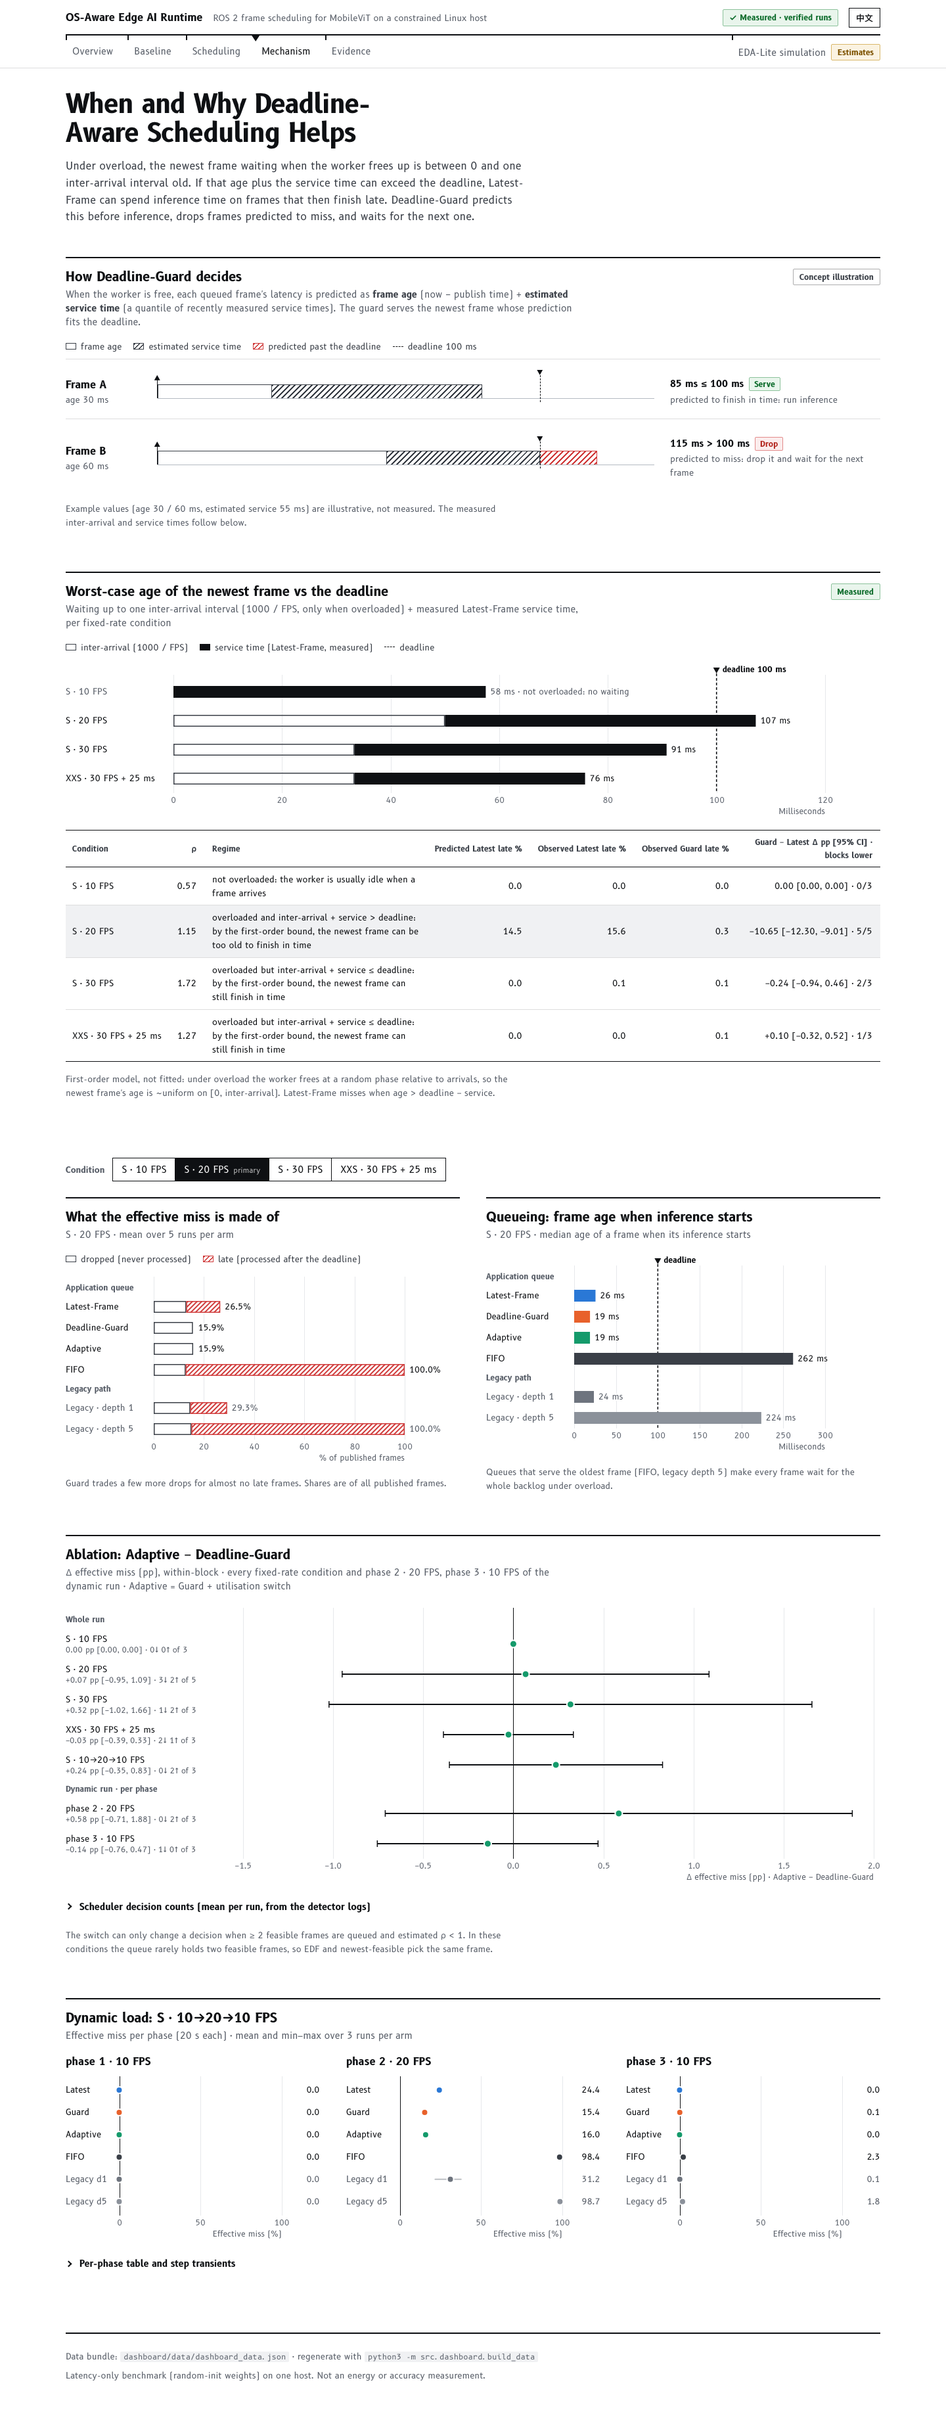
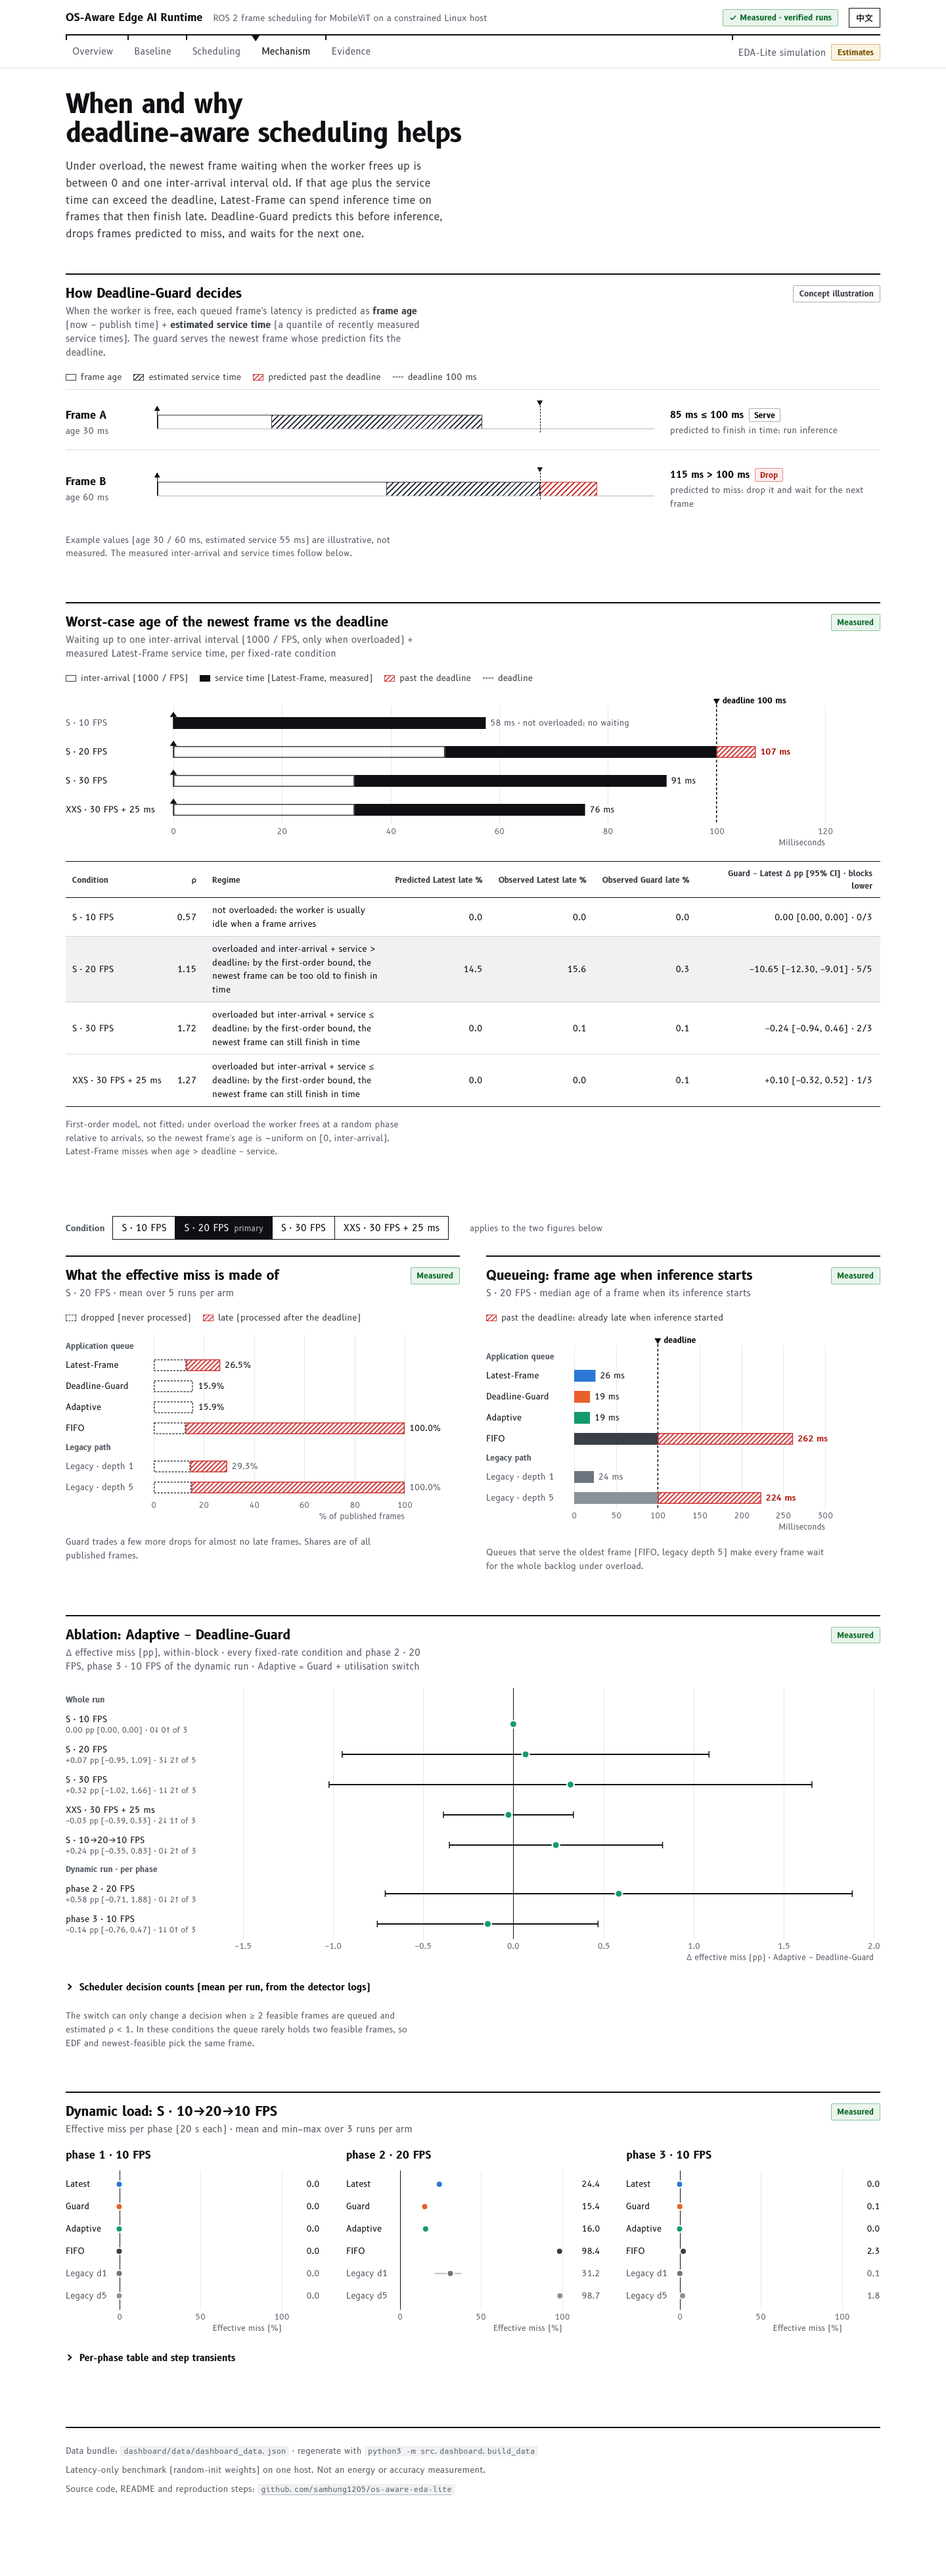
docs(dashboard): clickable repository link, refreshed README screenshots
- The footers and the Evidence note link to the GitHub repository. The
  frontend test allow-lists exactly that href; src= and every other
  external URL stay forbidden. PRODUCT.md records the exception.
- Fix the Evidence view, which failed to render after the link was added
  inside a double-quoted string.
- docs/images: full-page screenshots regenerated from the current build
  (headless Chrome, light scheme, 1440 px; phone at 500 px).

diff --git a/dashboard/assets/views/evidence.js b/dashboard/assets/views/evidence.js
@@ -88,7 +88,7 @@ python3 -m src.dashboard.build_data --check   # 0 = current
 
 ${L("# preview locally (binds 127.0.0.1 only)", "# 在本機預覽（只綁定 127.0.0.1）")}
 bash scripts/serve_dashboard.sh</pre>
-          <p class="fig-note">${L("Rebuilding the tables themselves from raw runs: README → Reproducibility in the repository, <code>github.com/samhung1205/os-aware-eda-lite</code>.", "要從 raw runs 重建表格本身，請見 repository <code>github.com/samhung1205/os-aware-eda-lite</code> 的 README → Reproducibility。")}</p></div>
+          <p class="fig-note">${L("Rebuilding the tables themselves from raw runs: README → Reproducibility in the repository, <a href='https://github.com/samhung1205/os-aware-eda-lite'><code>github.com/samhung1205/os-aware-eda-lite</code></a>.", "要從 raw runs 重建表格本身，請見 repository <a href='https://github.com/samhung1205/os-aware-eda-lite'><code>github.com/samhung1205/os-aware-eda-lite</code></a> 的 README → Reproducibility。")}</p></div>
       </div>
       <details class="table-toggle section-gap"><summary>${L(`All ${D.sources.length} source files with SHA-256`, `全部 ${D.sources.length} 個來源檔與 SHA-256`)}</summary>
         ${table([{ label: L("Path", "路徑"), l: true }, { label: L("Role", "用途"), l: true }, { label: "SHA-256", l: true }], D.sources.map((s) => ({ cells: [`<code>${esc(s.path)}</code>`, esc(T(s, "role")), `<code title="${s.sha256}">${s.sha256.slice(0, 16)}…</code>`] })))}</details>`;

diff --git a/dashboard/index.html b/dashboard/index.html
@@ -50,7 +50,7 @@
   <footer class="foot">
     <span><span data-zh="資料 bundle：">Data bundle: </span><code>dashboard/data/dashboard_data.json</code><span data-zh=" · 重新產生："> · regenerate with </span><code>python3 -m src.dashboard.build_data</code></span>
     <span data-zh="單一主機上的 latency-only benchmark（random-init weights），不是 energy 或 accuracy 量測。">Latency-only benchmark (random-init weights) on one host. Not an energy or accuracy measurement.</span>
-    <span><span data-zh="原始碼、README 與重現步驟：">Source code, README and reproduction steps: </span><code>github.com/samhung1205/os-aware-eda-lite</code></span>
+    <span><span data-zh="原始碼、README 與重現步驟：">Source code, README and reproduction steps: </span><a href="https://github.com/samhung1205/os-aware-eda-lite"><code>github.com/samhung1205/os-aware-eda-lite</code></a></span>
   </footer>
 
   <script>

diff --git a/dashboard/simulation.html b/dashboard/simulation.html
@@ -43,7 +43,7 @@
   <footer class="foot">
     <span><span data-zh="來源：">Source: </span><code>results/csv/eda_lite_mobilevit_profile_sweep.csv</code> (+ <code>.provenance.json</code>)<span data-zh="，由 ">, via </span><code>python3 -m src.dashboard.build_data</code><span data-zh=" 產生"></span></span>
     <span data-zh="僅為估計值。本頁沒有任何數字是 runtime 或 energy 實測。">Estimates only. Nothing on this page is a runtime or energy measurement.</span>
-    <span><span data-zh="原始碼與 README：">Source code and README: </span><code>github.com/samhung1205/os-aware-eda-lite</code></span>
+    <span><span data-zh="原始碼與 README：">Source code and README: </span><a href="https://github.com/samhung1205/os-aware-eda-lite"><code>github.com/samhung1205/os-aware-eda-lite</code></a></span>
   </footer>
   <script>
     window.addEventListener("error", function (e) {

diff --git a/tests/test_dashboard.py b/tests/test_dashboard.py
@@ -343,18 +343,26 @@ class FailureBehaviourTest(unittest.TestCase):
 class FrontendTest(unittest.TestCase):
     """Static checks of the page: self-contained, five views, separate simulation entry."""
 
+    # The one outbound link allowed: a plain <a href> to the project's own repository. It is a
+    # navigation link, not a resource the page loads; src= and every other URL stay forbidden.
+    REPO_LINK = "https://github.com/samhung1205/os-aware-eda-lite"
+
     def test_pages_load_no_external_resources(self):
         for f in [*DASH.glob("*.html"), *(DASH / "assets").rglob("*.js"), *(DASH / "assets").glob("*.css"),
                   *(DASH / "assets").glob("*.svg")]:
             text = f.read_text(encoding="utf-8")
             with self.subTest(file=f.name):
-                for m in re.finditer(r"""(?:src|href)\s*=\s*["']([^"']+)["']""", text):
-                    self.assertFalse(re.match(r"(https?:)?//", m.group(1)), f"{f.name}: external {m.group(1)}")
+                for m in re.finditer(r"""(src|href)\s*=\s*["']([^"']+)["']""", text):
+                    if m.group(1) == "href" and m.group(2) == self.REPO_LINK:
+                        continue
+                    self.assertFalse(re.match(r"(https?:)?//", m.group(2)), f"{f.name}: external {m.group(2)}")
                 self.assertNotIn("@import url(http", text)
 
     def test_referenced_local_files_exist(self):
         for page in DASH.glob("*.html"):
             for m in re.finditer(r"""(?:src|href)\s*=\s*["']([^"'#?]+)""", page.read_text(encoding="utf-8")):
+                if m.group(1) == self.REPO_LINK:
+                    continue
                 with self.subTest(page=page.name, ref=m.group(1)):
                     self.assertTrue((DASH / m.group(1)).is_file())
 

diff --git a/PRODUCT.md b/PRODUCT.md
@@ -30,7 +30,7 @@ A deadline-aware frame scheduler (Deadline-Guard) predicts, before spending infe
 
 ## Capabilities and Constraints
 
-- No build step, no framework, no external resources (tests enforce it); all paths relative and inside `dashboard/`.
+- No build step, no framework, no external resources (tests enforce it); all paths relative and inside `dashboard/`. The one outbound link is a plain `<a href>` to the project's GitHub repository (allow-listed in the test).
 - English is the default language; Traditional Chinese through the toggle or `?lang=zh-TW`. English technical terms stay in the Chinese text.
 - Light and dark colour schemes follow the system setting.
 - Measured ROS 2 results and EDA-Lite simulation estimates must stay visibly separate; estimates are always labelled as estimates.
